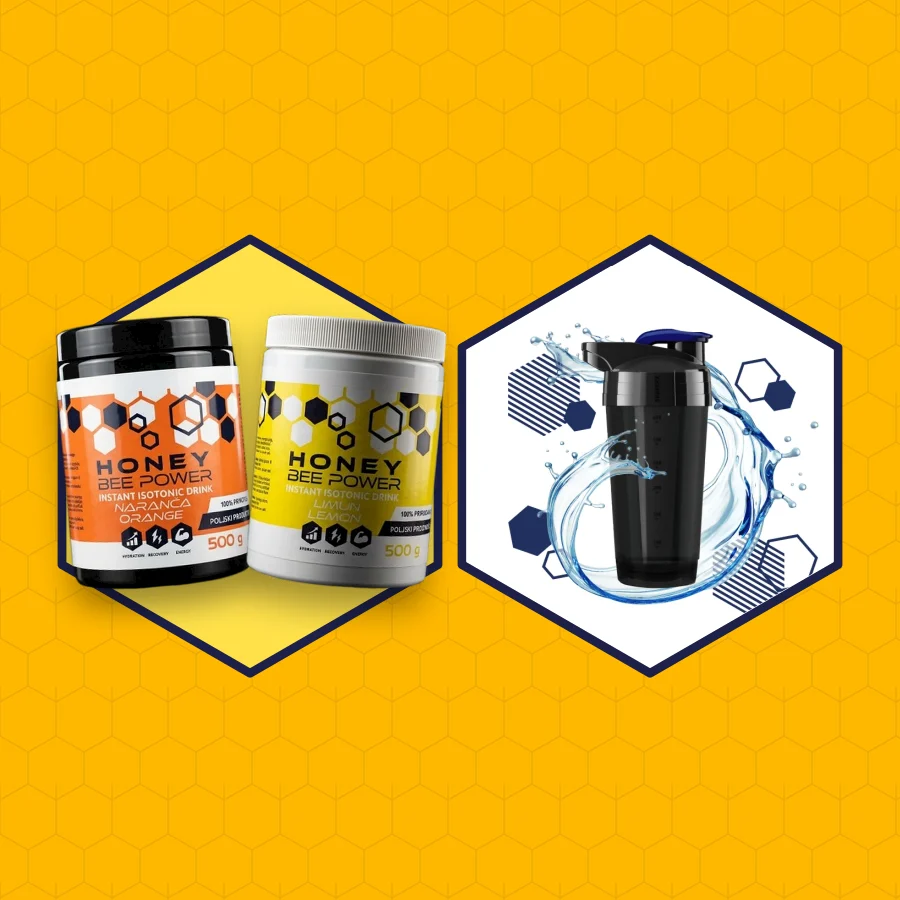
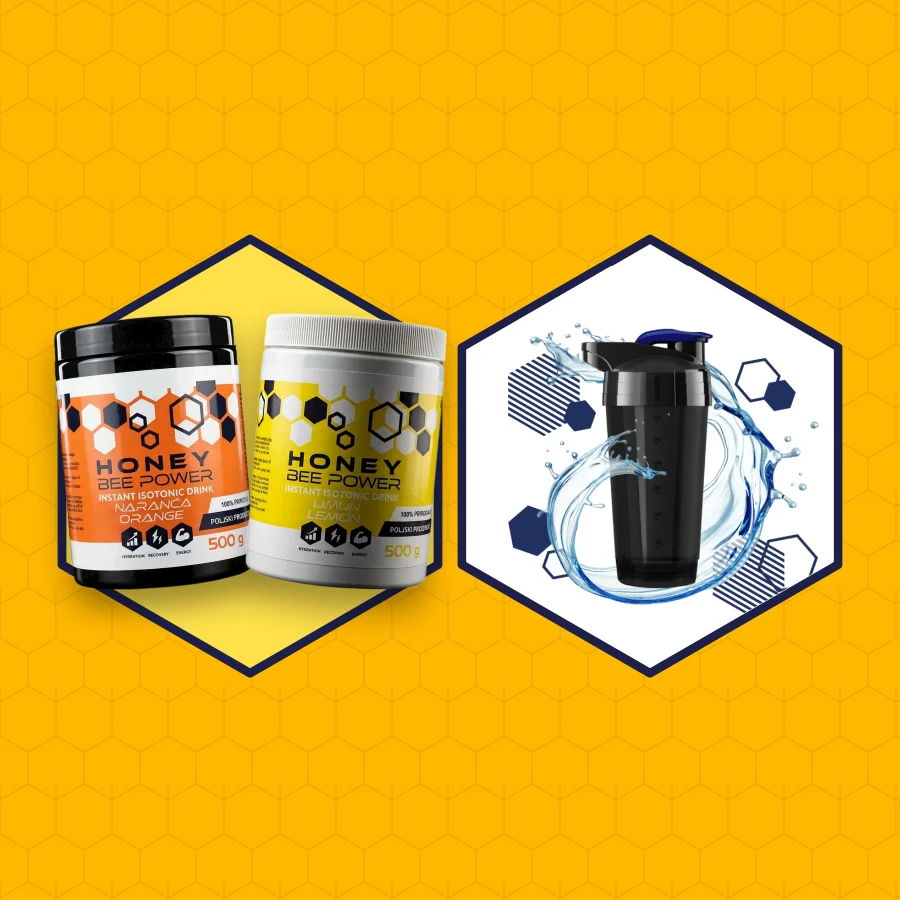
Fotografije proteina i izotonika u većoj razlučivosti (v3)
- nova serija 1376 × 768 px: izrez, povećanje 2 × bez tamnih rubova, izoštravanje, WebP q92
- kvaliteta prikaza 90 na naslovnici, kategorijama i stranicama proizvoda
- ponovno izrađeni omjeri slika (make_image_ratios.mjs) i slike paketa
- uklonjene datoteke prve serije (-v2)

Claude-Session: https://claude.ai/code/session_01T5r4TU6xTxySDYhNGBxv6f

Changed region(s): [[0.0622, 0.3422, 0.4978, 0.6533], [0.4356, 0.56, 0.4978, 0.5911], [0.4356, 0.4356, 0.4978, 0.4667]]

diff --git a/src/components/home/HomeHero.tsx b/src/components/home/HomeHero.tsx
@@ -35,10 +35,10 @@ const CELLS: Cell[] = [
   { slug: 'honey-bee-power-energy-gel-naranca', type: 'gel', x: 1, y: 0.866, src: '/images/products-web/gelnaranca-prednja.webp', w: 795, h: 1600, kind: 'cutout', field: 'field-orange', rot: '-3deg', size: 112, depth: 1.5 },
   { slug: 'honey-bee-power-energy-gel-malina', type: 'gel', x: 0, y: 0.866, src: '/images/products-web/gelmalina-prednja.webp', w: 778, h: 1600, kind: 'cutout', field: 'field-raspberry', rot: '-11deg', size: 100, depth: 0.9 },
   { slug: 'honey-bee-power-energy-gel-limun', type: 'gel', x: 2, y: 0.866, src: '/images/products-web/gellimun-prednja.webp', w: 748, h: 1600, kind: 'cutout', field: 'field-lemon', rot: '9deg', size: 100, depth: 0.9 },
-  { slug: 'honey-bee-power-izotonicki-napitak-naranca', type: 'iso', x: 0.5, y: 0, src: '/images/products-web/isonaranca-prednja-v2.webp', w: 1004, h: 1600, kind: 'cutout', field: 'field-orange', rot: '-5deg', size: 96, depth: 0.6 },
-  { slug: 'honey-bee-power-whey-protein-ljesnjak-cokolada-700g', type: 'whey', x: 1.5, y: 0, src: '/images/products-web/proteincokolada700g-v2.webp', w: 557, h: 1000, kind: 'cutout', field: '', rot: '4deg', size: 100, depth: 0.5 },
-  { slug: 'honey-bee-power-izotonicki-napitak-limun', type: 'iso', x: 0.5, y: 1.732, src: '/images/products-web/isolimun-prednja-v2.webp', w: 1024, h: 1600, kind: 'cutout', field: 'field-lemon', rot: '5deg', size: 96, depth: 0.7 },
-  { slug: 'honey-bee-power-whey-protein-jagoda-slag-700g', type: 'whey', x: 1.5, y: 1.732, src: '/images/products-web/proteinjagodaslag700g-v2.webp', w: 555, h: 1000, kind: 'cutout', field: '', rot: '-4deg', size: 100, depth: 0.8 },
+  { slug: 'honey-bee-power-izotonicki-napitak-naranca', type: 'iso', x: 0.5, y: 0, src: '/images/products-web/isonaranca-prednja-v3.webp', w: 946, h: 1370, kind: 'cutout', field: 'field-orange', rot: '-5deg', size: 96, depth: 0.6 },
+  { slug: 'honey-bee-power-whey-protein-ljesnjak-cokolada-700g', type: 'whey', x: 1.5, y: 0, src: '/images/products-web/proteincokolada700g-v3.webp', w: 692, h: 1256, kind: 'cutout', field: '', rot: '4deg', size: 100, depth: 0.5 },
+  { slug: 'honey-bee-power-izotonicki-napitak-limun', type: 'iso', x: 0.5, y: 1.732, src: '/images/products-web/isolimun-prednja-v3.webp', w: 928, h: 1354, kind: 'cutout', field: 'field-lemon', rot: '5deg', size: 96, depth: 0.7 },
+  { slug: 'honey-bee-power-whey-protein-jagoda-slag-700g', type: 'whey', x: 1.5, y: 1.732, src: '/images/products-web/proteinjagodaslag700g-v3.webp', w: 716, h: 1300, kind: 'cutout', field: '', rot: '-4deg', size: 100, depth: 0.8 },
 ]
 
 /**
@@ -114,6 +114,7 @@ export async function HomeHero({ locale }: { locale: Locale }) {
                           height={c.h}
                           sizes="(min-width: 1024px) 12vw, 28vw"
                           priority={n < 3}
+                          quality={90}
                           className="hive-img"
                           style={{ ['--r' as string]: c.rot, ['--s' as string]: `${c.size}%` }}
                         />

diff --git a/src/components/product/CategoryPage.tsx b/src/components/product/CategoryPage.tsx
@@ -48,7 +48,7 @@ export const CATEGORY_COPY: Record<string, { title: L10n; lead: L10n; meta: L10n
       'Izotonični napitek v prahu Honey Bee Power, limona in pomaranča: 500 g za 8,00 €, vrečka 15 g za 1,40 €. 13,5 g ogljikovih hidratov v obroku.',
       'Napój izotoniczny w proszku Honey Bee Power, cytryna i pomarańcza: 500 g za 8,00 €, saszetka 15 g za 1,40 €. 13,5 g węglowodanów w porcji.',
     ),
-    image: '/images/products-web/isolimun-prednja-v2.webp',
+    image: '/images/products-web/isolimun-prednja-v3.webp',
     field: 'field-lemon',
     column: T('Ugljikohidrata u 15 g', 'Carbohydrate in 15 g', 'Kohlenhydrate in 15 g', 'Ogljikovi hidrati v 15 g', 'Węglowodany w 15 g'),
   },
@@ -68,7 +68,7 @@ export const CATEGORY_COPY: Record<string, { title: L10n; lead: L10n; meta: L10n
       'Whey protein Honey Bee Power s sušenim medom in stevio: lešnik-čokolada, banana-vanilija, jagoda-smetana. 700 g za 39,00 €. Vsebuje mleko.',
       'Białko Honey Bee Power z suszonym miodem i stewią: orzech z czekoladą, banan z wanilią, truskawka ze śmietaną. 700 g za 39,00 €.',
     ),
-    image: '/images/products-web/proteincokolada700g-v2.webp',
+    image: '/images/products-web/proteincokolada700g-v3.webp',
     field: 'field-honey',
     column: T('Proteina u 33 g', 'Protein in 33 g', 'Protein in 33 g', 'Beljakovine v 33 g', 'Białko w 33 g'),
   },
@@ -113,7 +113,7 @@ export async function CategoryPage({ category, locale }: { category: string; loc
           <p className="mt-8 t-lead measure">{l(copy.lead, locale)}</p>
         </div>
         <div className={`relative col-span-12 aspect-square overflow-hidden rounded-[var(--radius)] border-2 border-[color:var(--color-ink)] sm:col-span-8 sm:col-start-5 lg:col-span-5 ${copy.field ?? 'bg-white'}`}>
-          <Image src={copy.image} alt="" fill priority sizes="(min-width: 1024px) 40vw, 70vw" className={copy.field ? 'object-contain p-[7%] drop-shadow-[0_24px_28px_rgb(0_0_0/0.3)]' : 'object-cover'} />
+          <Image src={copy.image} alt="" fill priority quality={90} sizes="(min-width: 1024px) 40vw, 70vw" className={copy.field ? 'object-contain p-[7%] drop-shadow-[0_24px_28px_rgb(0_0_0/0.3)]' : 'object-cover'} />
         </div>
       </section>
 

diff --git a/src/lib/bundles-data.ts b/src/lib/bundles-data.ts
@@ -34,13 +34,13 @@ export const FLAVOURS: Record<FlavourKind, Flavour[]> = {
     { id: 'malina', slug: 'honey-bee-power-energy-gel-malina', image: img('gelmalina-prednja'), ratio: ratio('gelmalina-prednja'), photo: 'cutout' },
   ],
   iso: [
-    { id: 'limun', slug: 'honey-bee-power-izotonicki-napitak-limun', image: img('isolimun-prednja-v2'), ratio: ratio('isolimun-prednja-v2'), photo: 'cutout' },
-    { id: 'naranca', slug: 'honey-bee-power-izotonicki-napitak-naranca', image: img('isonaranca-prednja-v2'), ratio: ratio('isonaranca-prednja-v2'), photo: 'cutout' },
+    { id: 'limun', slug: 'honey-bee-power-izotonicki-napitak-limun', image: img('isolimun-prednja-v3'), ratio: ratio('isolimun-prednja-v3'), photo: 'cutout' },
+    { id: 'naranca', slug: 'honey-bee-power-izotonicki-napitak-naranca', image: img('isonaranca-prednja-v3'), ratio: ratio('isonaranca-prednja-v3'), photo: 'cutout' },
   ],
   whey: [
-    { id: 'cokolada', slug: 'honey-bee-power-whey-protein-ljesnjak-cokolada-700g', image: img('proteincokolada700g-v2'), ratio: ratio('proteincokolada700g-v2'), photo: 'cutout' },
-    { id: 'banana', slug: 'honey-bee-power-whey-protein-banana-vanilija-700g', image: img('proteinbanana700g-v2'), ratio: ratio('proteinbanana700g-v2'), photo: 'cutout' },
-    { id: 'jagoda', slug: 'honey-bee-power-whey-protein-jagoda-slag-700g', image: img('proteinjagodaslag700g-v2'), ratio: ratio('proteinjagodaslag700g-v2'), photo: 'cutout' },
+    { id: 'cokolada', slug: 'honey-bee-power-whey-protein-ljesnjak-cokolada-700g', image: img('proteincokolada700g-v3'), ratio: ratio('proteincokolada700g-v3'), photo: 'cutout' },
+    { id: 'banana', slug: 'honey-bee-power-whey-protein-banana-vanilija-700g', image: img('proteinbanana700g-v3'), ratio: ratio('proteinbanana700g-v3'), photo: 'cutout' },
+    { id: 'jagoda', slug: 'honey-bee-power-whey-protein-jagoda-slag-700g', image: img('proteinjagodaslag700g-v3'), ratio: ratio('proteinjagodaslag700g-v3'), photo: 'cutout' },
   ],
 }
 

diff --git a/src/lib/image-ratios.ts b/src/lib/image-ratios.ts
@@ -15,10 +15,10 @@ export const IMAGE_RATIOS: Record<string, number> = {
   "/images/products-web/honeybeepowerenergygel_raspberry.webp": 0.683,
   "/images/products-web/honeybeepoweriso_lemon.webp": 0.683,
   "/images/products-web/honeybeepoweriso_orange.webp": 0.683,
-  "/images/products-web/isolimun-prednja-v2.webp": 0.692,
+  "/images/products-web/isolimun-prednja-v3.webp": 0.685,
   "/images/products-web/isolimun-zadnja-xl.webp": 0.623,
   "/images/products-web/isolimun-zadnja.webp": 0.623,
-  "/images/products-web/isonaranca-prednja-v2.webp": 0.693,
+  "/images/products-web/isonaranca-prednja-v3.webp": 0.691,
   "/images/products-web/isonaranca-zadnja-xl.webp": 0.615,
   "/images/products-web/isonaranca-zadnja.webp": 0.616,
   "/images/products-web/izotoniklimun15g.webp": 0.462,
@@ -28,10 +28,10 @@ export const IMAGE_RATIOS: Record<string, number> = {
   "/images/products-web/paketgelnaranca-new.webp": 0.916,
   "/images/products-web/paketizolimunnaranca-shaker.webp": 1.277,
   "/images/products-web/proteinbanana33g.webp": 0.462,
-  "/images/products-web/proteinbanana700g-v2.webp": 0.552,
+  "/images/products-web/proteinbanana700g-v3.webp": 0.548,
   "/images/products-web/proteincokolada33g.webp": 0.462,
-  "/images/products-web/proteincokolada700g-v2.webp": 0.557,
+  "/images/products-web/proteincokolada700g-v3.webp": 0.551,
   "/images/products-web/proteinjagoda33g.webp": 0.462,
-  "/images/products-web/proteinjagodaslag700g-v2.webp": 0.555,
+  "/images/products-web/proteinjagodaslag700g-v3.webp": 0.551,
   "/images/products-web/shaker.webp": 1
 }

diff --git a/src/app/[locale]/galerija/page.tsx b/src/app/[locale]/galerija/page.tsx
@@ -58,11 +58,11 @@ export default async function GalleryPage({ params }: { params: Promise<{ locale
     front('gel', 'honey-bee-power-energy-gel-limun', 'gellimun-prednja'),
     front('gel', 'honey-bee-power-energy-gel-naranca', 'gelnaranca-prednja'),
     front('gel', 'honey-bee-power-energy-gel-malina', 'gelmalina-prednja'),
-    front('iso', 'honey-bee-power-izotonicki-napitak-limun', 'isolimun-prednja-v2'),
-    front('iso', 'honey-bee-power-izotonicki-napitak-naranca', 'isonaranca-prednja-v2'),
-    front('whey', 'honey-bee-power-whey-protein-ljesnjak-cokolada-700g', 'proteincokolada700g-v2'),
-    front('whey', 'honey-bee-power-whey-protein-banana-vanilija-700g', 'proteinbanana700g-v2'),
-    front('whey', 'honey-bee-power-whey-protein-jagoda-slag-700g', 'proteinjagodaslag700g-v2'),
+    front('iso', 'honey-bee-power-izotonicki-napitak-limun', 'isolimun-prednja-v3'),
+    front('iso', 'honey-bee-power-izotonicki-napitak-naranca', 'isonaranca-prednja-v3'),
+    front('whey', 'honey-bee-power-whey-protein-ljesnjak-cokolada-700g', 'proteincokolada700g-v3'),
+    front('whey', 'honey-bee-power-whey-protein-banana-vanilija-700g', 'proteinbanana700g-v3'),
+    front('whey', 'honey-bee-power-whey-protein-jagoda-slag-700g', 'proteinjagodaslag700g-v3'),
     { id: 'shaker', src: web('shaker'), full: web('shaker'), alt: KIND_LABEL.shaker[locale], w: 698, h: 698, bg: '#ffffff' },
     back('honey-bee-power-energy-gel-limun', 'gellimun-zadnja'),
     back('honey-bee-power-energy-gel-naranca', 'gelnaranca-zadnja'),

diff --git a/src/components/home/ProductLinesSection.tsx b/src/components/home/ProductLinesSection.tsx
@@ -24,7 +24,7 @@ export async function ProductLinesSection({ locale }: { locale: Locale }) {
     {
       key: 'iso',
       href: '/proizvodi/izotonicki-napitci',
-      image: '/images/products-web/isolimun-prednja-v2.webp',
+      image: '/images/products-web/isolimun-prednja-v3.webp',
       imageW: 1024,
       imageH: 1600,
       field: 'field-lemon',
@@ -35,7 +35,7 @@ export async function ProductLinesSection({ locale }: { locale: Locale }) {
     {
       key: 'whey',
       href: '/proizvodi/whey-proteini',
-      image: '/images/products-web/proteincokolada700g-v2.webp',
+      image: '/images/products-web/proteincokolada700g-v3.webp',
       imageW: 1080,
       imageH: 1080,
       field: 'field-honey',
@@ -88,6 +88,7 @@ export async function ProductLinesSection({ locale }: { locale: Locale }) {
                   src={line.image}
                   alt={t(`${line.key}.imageAlt`)}
                   fill
+                  quality={90}
                   sizes="(min-width: 768px) 40vw, 100vw"
                   className={`${line.fit} transition-transform duration-700 ease-[var(--ease-out-expo)] group-hover:scale-[1.04]`}
                 />

diff --git a/src/lib/images.ts b/src/lib/images.ts
@@ -2,12 +2,12 @@
  * Lagane kopije fotografija proizvoda (public/images/products-web/*.webp),
  * izrađene iz izvornika u public/images/products. Izvornici ostaju.
  */
-/** Slike zamijenjene novim izrezima (2. 11. 2026.): novi naziv datoteke zaobilazi stare spremljene inačice u preglednicima i predmemoriji. */
+/** Slike zamijenjene novim izrezima (verzija 3, 2. 11. 2026.): novi naziv datoteke zaobilazi stare spremljene inačice u preglednicima i predmemoriji. */
 const REVISED = new Set(['proteinbanana700g', 'proteincokolada700g', 'proteinjagodaslag700g', 'isolimun-prednja', 'isonaranca-prednja'])
 
 export function webImage(ref: string): string {
   const m = ref.match(/^\/images\/products\/([^/]+)\.(png|jpe?g)$/i)
-  return m ? `/images/products-web/${m[1]}${REVISED.has(m[1]) ? '-v2' : ''}.webp` : ref
+  return m ? `/images/products-web/${m[1]}${REVISED.has(m[1]) ? '-v3' : ''}.webp` : ref
 }
 
 /** Tamna ili svijetla slova na polju boje okusa (WCAG kontrast). */

diff --git a/src/components/product/ProductDetail.tsx b/src/components/product/ProductDetail.tsx
@@ -374,6 +374,7 @@ export async function ProductDetail({ product, locale }: { product: ProductSumma
                       src={webImage(p.mainImage.asset._ref)}
                       alt=""
                       fill
+                      quality={90}
                       sizes="(min-width: 768px) 22vw, 45vw"
                       className="object-contain p-[10%] transition-transform duration-500 ease-[var(--ease-out-expo)] group-hover:scale-[1.04]"
                     />

diff --git a/src/components/product/ProductStage.tsx b/src/components/product/ProductStage.tsx
@@ -95,6 +95,7 @@ export default function ProductStage({ src, alt, ratio, field, ink, word }: Prop
                 width={Math.round(1000 * ratio)}
                 height={1000}
                 priority
+                quality={90}
                 sizes="(min-width: 768px) 40vw, 80vw"
                 className="stage-img"
                 style={{ aspectRatio: String(ratio) }}

diff --git a/redizajn/IZVJESTAJ.md b/redizajn/IZVJESTAJ.md
@@ -1,8 +1,8 @@
 # Dopuna: nove fotografije proizvoda, galerija i vodiči bez slika (2. 11. 2026.)
 
-**Nove fotografije proteina i izotonika.** Vlasnik je poslao 5 boljih fotografija (whey banana-vanilija, lješnjak-čokolada, jagoda-šlag; izotonik limun i naranča). Izrezane su i stavljene umjesto starih prljavih kantica na naslovnici, kategorijama, stranicama proizvoda, paketima i košarici. Nazivi datoteka dobili su nastavak `-v2` (`public/images/products-web/*-v2.webp`, `public/images/products/*.png`) da se na Cloudflareu i u pregledniku ne prikaže stara slika iz predmemorije; mapiranje je u `src/lib/images.ts`. Whey više nema bijelo polje nego boju okusa (čokolada, banana, jagoda).
+**Nove fotografije proteina i izotonika (druga, veća serija).** Vlasnik je poslao 5 fotografija u većoj razlučivosti (1376 × 768 px, proizvod oko 330 × 630 px za whey i 450 × 660 px za izotonik, prozirna pozadina) umjesto prve serije (proizvod oko 160 × 300 px) i one su zamijenile staru verziju: whey banana-vanilija, lješnjak-čokolada, jagoda-šlag te izotonik limun i naranča. Obrada: izrez po rubu proizvoda, povećanje 2 × (Lanczos u premultiplied prostoru, bez tamnih rubova), blago izoštravanje (UnsharpMask 1,4 / 70 %), WebP kvalitete 92 (`public/images/products-web/*-v3.webp`, 90 do 170 KB) i PNG za izvornike (`public/images/products/*.png`). Na stranicama proizvoda, naslovnici i kategorijama slike se prikazuju s kvalitetom 90 (`quality={90}` na `next/image`) umjesto zadanih 75. Nastavak `-v3` u nazivu datoteke zaobilazi stare spremljene inačice u preglednicima i na Cloudflareu; mapiranje je u `src/lib/images.ts`. Omjeri slika (`src/lib/image-ratios.ts`) generiraju se skriptom `redizajn/og/make_image_ratios.mjs`, a slike paketa ponovno su izrađene (`redizajn/og/make_bundle_covers.mjs`). Whey više nema bijelo polje nego boju okusa. Obrisane su datoteke prve serije (`*-v2.webp`).
 
-**Upozorenje o kvaliteti:** poslane fotografije su male (kantica oko 160 × 300 px, izotonik oko 217 × 320 px). Povećane su 3 × uz izoštravanje, pa na velikim prikazima izgledaju malo mekano. **Treba pitati vlasnika za izvorne datoteke u većoj razlučivosti** (barem 1500 px po visini) i zamijeniti ih istim imenima.
+**Napomena o oštrini:** originali su još uvijek ograničeni na oko 650 px visine proizvoda; povećanje 2 × daje čistu sliku na zaslonima do oko 700 px visine proizvoda (provjereno na 1440 px s gustoćom 2 ×), a veći prikazi bili bi još oštriji tek s izvornicima od 1500 px po visini. Ako takvi postoje, mogu se zamijeniti istim imenima.
 
 **Uklonjene dekorativne fotografije** (na zahtjev vlasnika: „svugdje si bezveze dodavao slike”). Ostale su samo slike koje nešto pokazuju (proizvodi, poleđine s deklaracijama, košarica, paketi, logotip):
 - naslovnica: fotografija meda iza naslova, fotografije u odjeljcima Sastojci, Cjenik i Priča (s opisom fotografije iz 1939.), pločice sporta, traka fotografija „Događaji”
